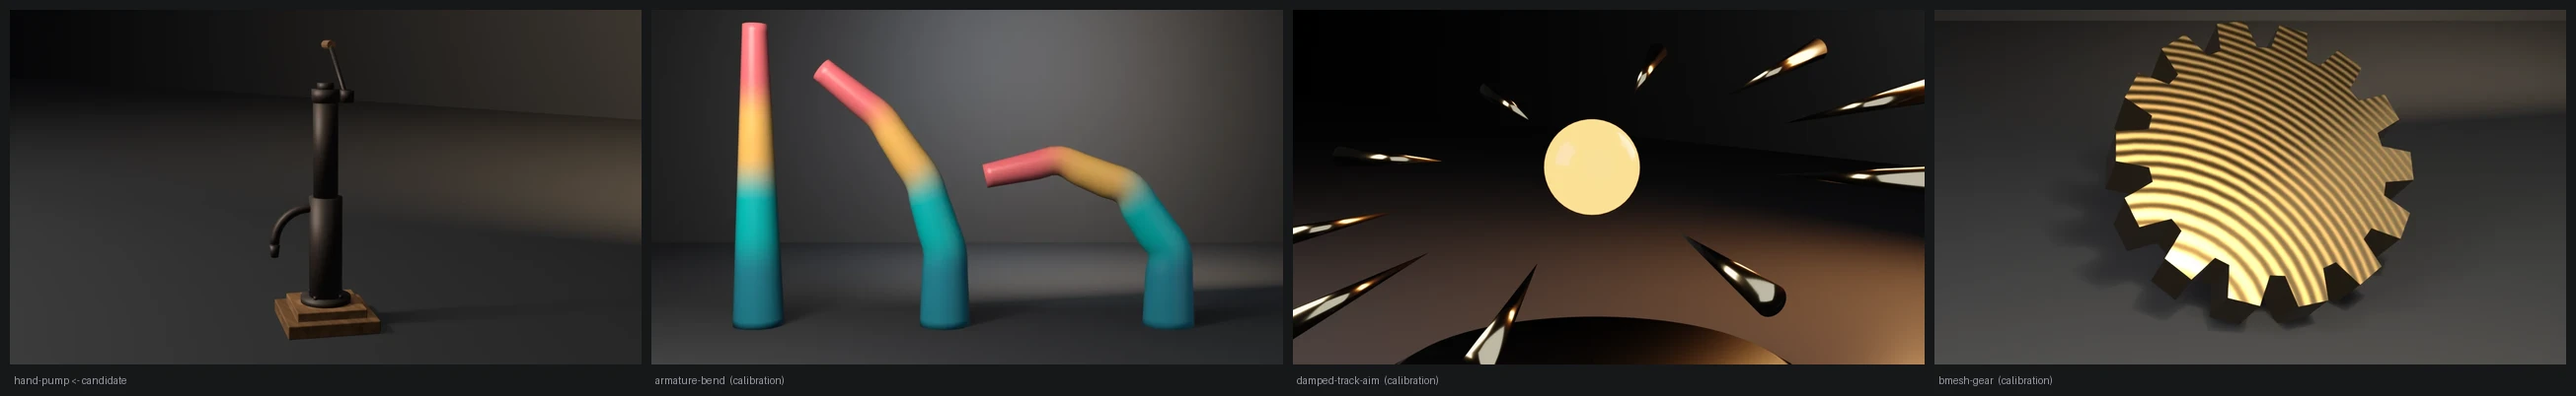
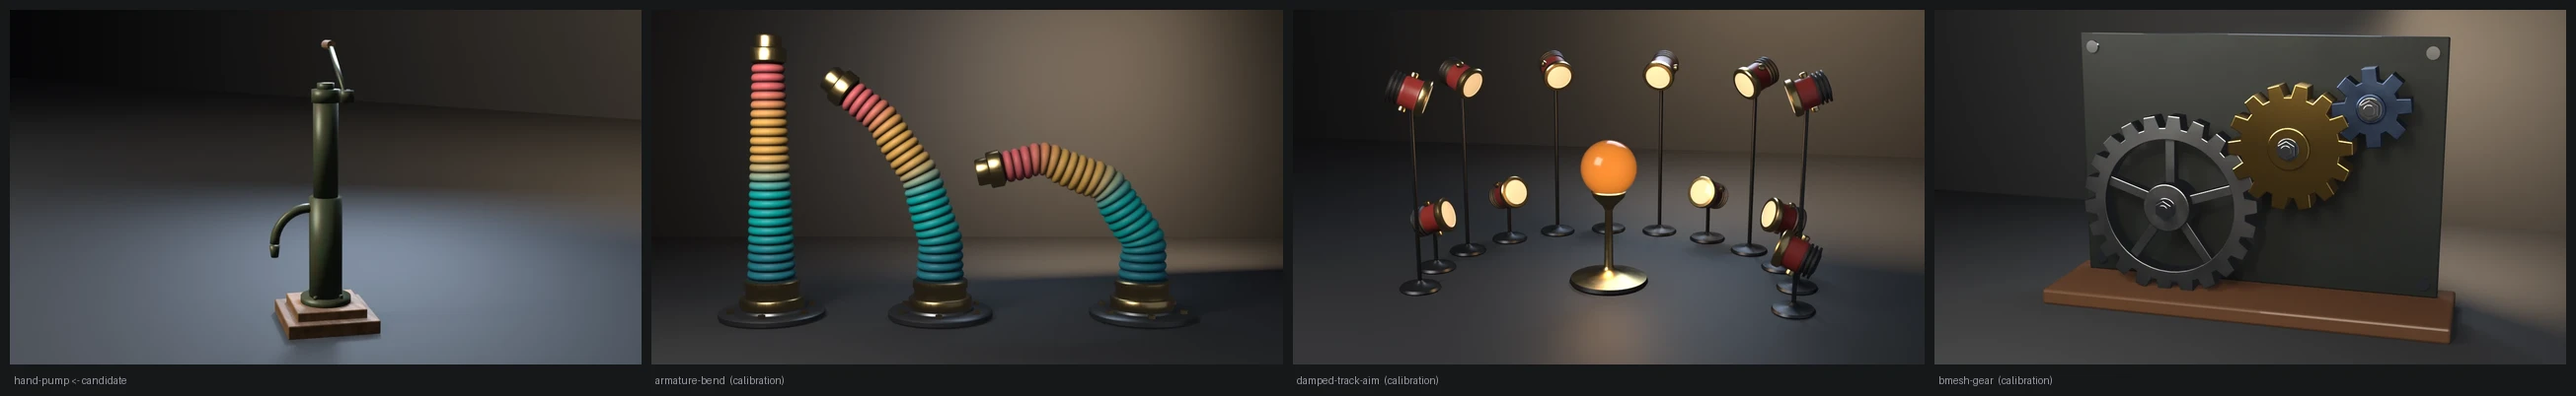
fix(showcase): paint hand-pump green enamel and rim-light its silhouette
The near-black iron vanished into the dark stage; only the plinth read.
The iron is now dark green enamel (0.020, 0.150, 0.075; metallic 0.25,
roughness 0.42) with rust wear at the edges and pores. A cool rim light,
aimed at the column rather than the backdrop, lifts the column, handle
and spout silhouettes. The key is tighter and the fill brighter. The
material count and slots are unchanged, as are geometry, budgets and
checks. The camera stays where it was: moving closer pushed the tall
pump past the 0.90 fill ceiling (y=0.978).

Evidence (live runs, local; E:\Blender-Developer-Tools\.scratch binaries):
- blender-5.2.1-windows-x64 (Blender 5.2.1 LTS) and
  blender-4.5.11-windows-x64 (Blender 4.5.11 LTS): default exit 0 on
  both. Falsifiers on both: --skip-decimate 9, --stray-vert 15,
  --lift-z 16, --float-spout 17, --float-flange 18, --skinny-col 19.
- Framing (5.2.1): fill x=0.175 y=0.844, framing_ok.
- Contact sheet: luma 0.257, stage 0.242, warmth -0.098, sat 0.156.
- Asset sheet (docs/gallery/asset-sheets/hand-pump.webp): the pump now
  reads as a painted object, but it is still a thin column and among the
  simplest in the lineup.

diff --git a/showcase/hand-pump/hand_pump.py b/showcase/hand-pump/hand_pump.py
@@ -697,14 +697,16 @@ def wood_material(name):
 def pump_materials():
     """(wood, iron): shared by the check, the render and inspection.
 
-    A cast-iron pump is painted near-black and weathers to rust at the
+    A cast-iron village pump is painted in dark green enamel and weathers
+    to rust at the
     edges and pores; the first build was polished metal (metallic 1.0,
-    roughness 0.38) and read as chrome.
+    roughness 0.38) and read as chrome; the second build's near-black
+    paint vanished into the dark stage.
     """
     wood = wood_material("HandPumpWood")
     metal = principled(
-        "HandPumpIron", (0.045, 0.047, 0.050, 1.0), 0.55, 0.52,
-        noise_scale=24.0, wear=(0.09, 0.05, 0.03, 1.0),
+        "HandPumpIron", (0.020, 0.150, 0.075, 1.0), 0.25, 0.42,
+        noise_scale=24.0, wear=(0.16, 0.065, 0.025, 1.0),
     )
     return wood, metal
 
@@ -1292,8 +1294,19 @@ def render_still(low, wood, tex, path, engine):
         ob.rotation_euler = tuple(math.radians(a) for a in rot)
         scene.collection.objects.link(ob)
 
-    light("Key", (-3.6, -5.0, 5.4), 660.0, 4.0, (1.0, 0.94, 0.86), (50, 0, -36))
-    light("Fill", (5.0, -3.4, 2.4), 46.0, 8.0, (0.72, 0.82, 1.0), (62, 0, 50))
+    light("Key", (-3.6, -5.0, 5.4), 620.0, 3.0, (1.0, 0.94, 0.86), (50, 0, -36))
+    light("Fill", (5.0, -3.4, 2.4), 60.0, 8.0, (0.72, 0.82, 1.0), (62, 0, 50))
+    # cool rim from behind: lifts the column, handle and spout silhouettes
+    # off the dark backdrop, where the first hero lost them
+    rim = bpy.data.lights.new("Rim", "AREA")
+    rim.energy = 140.0
+    rim.size = 1.2
+    rim.color = (0.62, 0.78, 1.0)
+    rim_ob = bpy.data.objects.new("Rim", rim)
+    rim_ob.location = (-1.1, 1.6, 1.9)
+    # aimed at the column so it grazes the silhouette, not the backdrop
+    rim_ob.rotation_euler = (Vector((0.0, 0.0, 0.7)) - rim_ob.location).to_track_quat("-Z", "Y").to_euler()
+    scene.collection.objects.link(rim_ob)
     light("Wedge", (2.2, 4.0, 3.8), 600.0, 5.5, (1.0, 0.70, 0.40), (-70, 0, 198))
 
     cam_data = bpy.data.cameras.new("Cam")

diff --git a/README.md b/README.md
@@ -126,7 +126,7 @@ Budget-conformance props. Not examples. Conventions: [`showcase/README.md`](show
   <a href="showcase/water-trough/"><img src="showcase/water-trough/preview.webp" width="24%" alt="Water trough: a watertight wooden trough with plank ends, contained water, and trestle legs on a dark studio floor" /></a>
   <a href="showcase/hitching-post/"><img src="showcase/hitching-post/preview.webp" width="24%" alt="Hitching post: a square timber post with a pyramidal cap, cross-arm, iron bands wrapped around it, two hitching rings and a nailed horseshoe on a dark studio floor" /></a>
   <a href="showcase/grindstone/"><img src="showcase/grindstone/preview.webp" width="24%" alt="Grindstone: a stone wheel on a timber A-frame with an iron axle, hubs, crank, and tray on a dark studio floor" /></a>
-  <a href="showcase/hand-pump/"><img src="showcase/hand-pump/preview.webp" width="24%" alt="Hand pump: a matte black cast-iron village pump on a stepped wooden plinth with a spout and handle on a dark studio floor" /></a>
+  <a href="showcase/hand-pump/"><img src="showcase/hand-pump/preview.webp" width="24%" alt="Hand pump: a green-enamelled cast-iron village pump on a stepped wooden plinth with a spout and handle on a dark studio floor" /></a>
   <a href="showcase/signpost/"><img src="showcase/signpost/preview.webp" width="24%" alt="Signpost: a timber crossroads post with three painted fingerboards lettered MILLBROOK 2, OAKHAM 5 and FORD 1, iron straps, and a pyramidal cap on a dark studio floor" /></a>
   <a href="showcase/chopping-block/"><img src="showcase/chopping-block/preview.webp" width="24%" alt="Chopping block: a bark-sided log round with growth rings and drying checks on its sawn top, a riveted iron hoop, and a felling axe buried in the top, on a dark studio floor" /></a>
   <a href="showcase/wooden-bucket/"><img src="showcase/wooden-bucket/preview.webp" width="24%" alt="Wooden bucket: a coopered pail with a three-strand rope bail through iron ear rings and chord-lofted iron hoops on a dark studio floor" /></a>

diff --git a/showcase/hand-pump/README.md b/showcase/hand-pump/README.md
@@ -60,8 +60,10 @@ The quality pass found no geometric defect: every joint checked in the
 inspection sheet (spout root, flange bolts, head and handle pivot,
 column step, plinth) seats as the joint budgets say. The defects were
 on the surface. The iron was polished metal (metallic 1.0, roughness
-0.38) and read as chrome; it is now near-black painted cast iron with
-dark rust in the pores. The plinth slabs and the handle grip carry their
+0.38) and read as chrome; the next pass painted it near-black, which
+vanished into the dark stage. It is now dark green enamelled cast iron
+with rust in the pores and at the edges, and a cool rim light aimed at the
+column lifts its silhouette off the backdrop. The plinth slabs and the handle grip carry their
 own wood tone and grain. The stage grid grew from 14 to 60 m, because
 the wall's left edge showed in the corner of the hero. The temp `.glb`
 is removed after its size is measured. With no new geometric defect,
